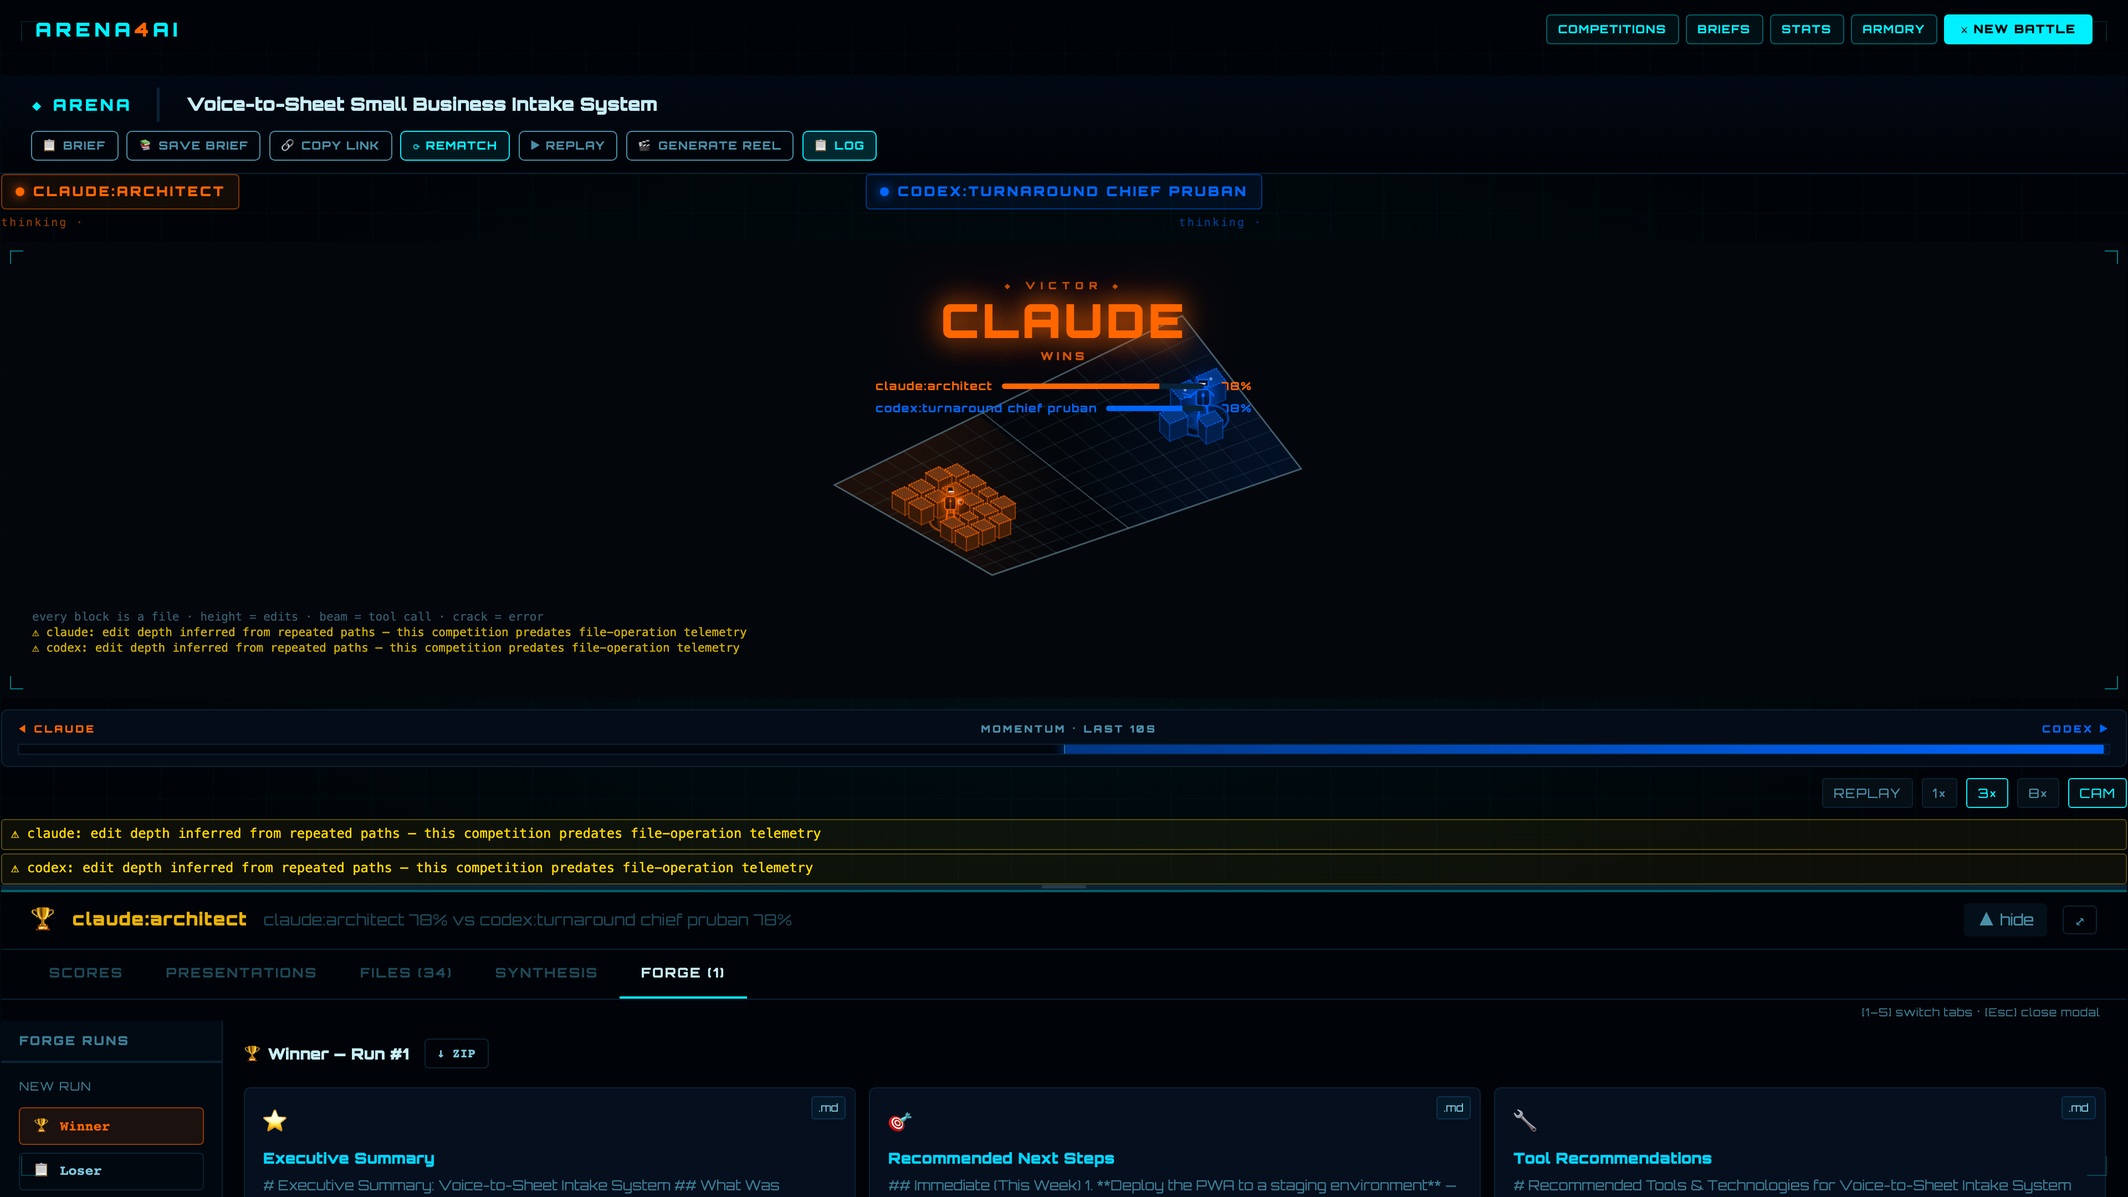
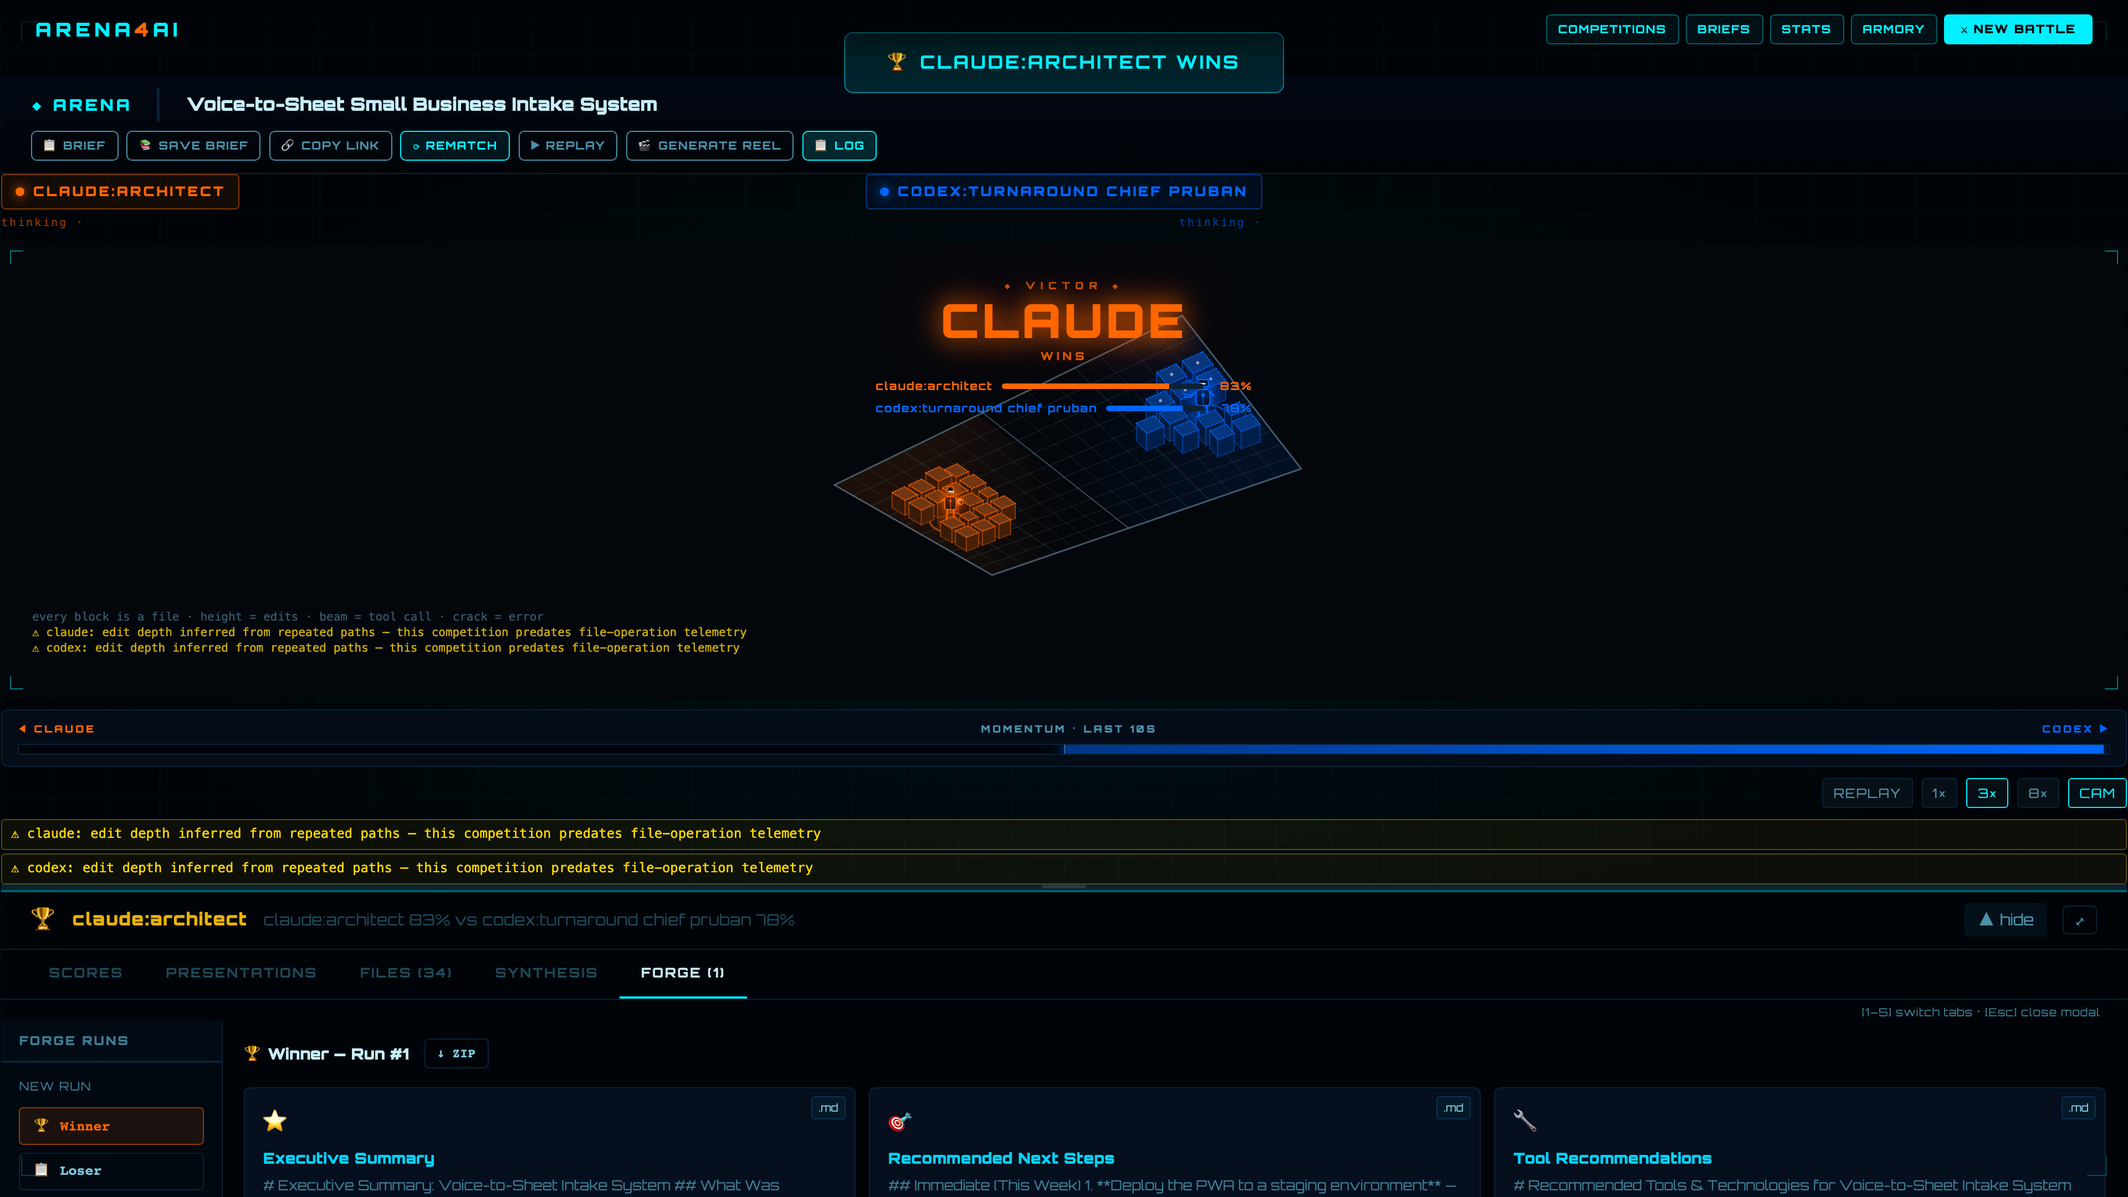
feat(reel): show the panel split instead of averaging it away
AA-088. The reel's source competition was stored as a 0.78 / 0.78 TIE with
team-a declared the winner. The tie was arithmetic, not judgement: the stored
cards read [8,8,7,8,8] and [8,7,9,8,7] — different work, identical sum, on a
scale too coarse to hold the difference. Re-scored under the AA-063 prompt the
same judge separates them 0.828 / 0.776, and the decisive criterion is
field-extraction at 8.8 vs 6.4. Note this is the OPPOSITE direction from the
other competition we re-scored, where resolution COLLAPSED a fake margin.
Integer buckets hide real differences as readily as they invent fake ones.

The reel also captioned that scorecard "Judging · cross-model panel" while the
database held one judge, ai-claude, for both teams — Claude judging a contest
Claude won. Neither `adversarial` setting on /re-judge fixes this, because
resolveJudgeModel defaults provider to 'claude', so the "second" judge is
Claude too. A real codex judge was run (ai-codex/gpt-5.6-sol) and both cards
are now stored per team, which makes the caption true.

The panel then split, and that is the reason for this commit:

  ai-claude              claude 0.828   codex 0.776   -> claude, by 5 points
  ai-codex/gpt-5.6-sol   claude 0.800   codex 0.801   -> level
  mean                   claude 0.814   codex 0.788

The mean is the one number on screen nobody can check, and it renders a split
panel as a clean win. So:

- generate-arena-data.ts emits ARENA_JUDGE_CARDS, recomputing each judge's
[…]

Changed region(s): [[0.375, 0.031, 0.625, 0.0931], [0.1875, 0.7444, 0.375, 0.7755], [0.5312, 0.2792, 0.5938, 0.3722]]

diff --git a/packages/video/src/sizzle/arena-data.ts b/packages/video/src/sizzle/arena-data.ts
@@ -32,13 +32,13 @@ export const ARENA_SUMMARY: ArenaTeamSummary[] = [
     "id": "team-a",
     "model": "claude",
     "files": 17,
-    "score": 0.78
+    "score": 0.81375
   },
   {
     "id": "team-b",
     "model": "codex",
     "files": 17,
-    "score": 0.78
+    "score": 0.7882499999999999
   }
 ];
 
@@ -96,6 +96,31 @@ export const ARENA_FORGE: ArenaForgeArtifact[] = [
     "title": "CI Pipeline",
     "ext": "yml",
     "desc": ".github/workflows/ci.yml"
+  }
+];
+/**
+ * Every judge's own card, NOT the average.
+ *
+ * ARENA_SUMMARY.score is the mean across judges. On a split panel that mean is
+ * the one number that cannot be checked against anything on screen: it shows a
+ * clean winner where the judges disagreed. Kept separate so a scene can render
+ * the disagreement instead of hiding it.
+ */
+export interface ArenaJudgeCard { judgeId: string; byTeam: Record<string, number> }
+export const ARENA_JUDGE_CARDS: ArenaJudgeCard[] = [
+  {
+    "judgeId": "ai-claude",
+    "byTeam": {
+      "team-a": 0.8280000000000001,
+      "team-b": 0.7755
+    }
+  },
+  {
+    "judgeId": "ai-codex/gpt-5.6-sol",
+    "byTeam": {
+      "team-a": 0.7995,
+      "team-b": 0.8009999999999999
+    }
   }
 ];
 export const ARENA_EVENTS: FrameEvent[] = [{"t":5565,"teamId":"team-a","text":"","kind":"tool","tool":"Bash","legacy":false},{"t":10703,"teamId":"team-a","text":"","kind":"tool","tool":"Bash","legacy":false},{"t":16439,"teamId":"team-b","text":"","kind":"tool","tool":"bash","legacy":false},{"t":22152,"teamId":"team-a","text":"/private/var/folders/8q/mdrhff0x40db3yk_5t24hmkw0000gq/T/arena-team-a-42TXmB/.env.example","kind":"file","path":".env.example","tool":"Write","legacy":true},{"t":27535,"teamId":"team-a","text":"/private/var/folders/8q/mdrhff0x40db3yk_5t24hmkw0000gq/T/arena-team-a-42TXmB/server/package.json","kind":"file","path":"server/package.json","tool":"Write","legacy":true},{"t":53333,"teamId":"team-b","text":"","kind":"tool","tool":"bash","legacy":false},{"t":63407,"teamId":"team-a","text":"/private/var/folders/8q/mdrhff0x40db3yk_5t24hmkw0000gq/T/arena-team-a-42TXmB/server/index.js","kind":"file","path":"server/index.js","tool":"Write","legacy":true},{"t":80590,"teamId":"team-a","text":"/private/var/folders/8q/mdrhff0x40db3yk_5t24hmkw0000gq/T/arena-team-a-42TXmB/server/transcription.js","kind":"file","path":"server/transcription.js","tool":"Write","legacy":true},{"t":122035,"teamId":"team-a","text":"/private/var/folders/8q/mdrhff0x40db3yk_5t24hmkw0000gq/T/arena-team-a-42TXmB/server/field-extraction.js","kind":"file","path":"server/field-extraction.js","tool":"Write","legacy":true},{"t":145410,"teamId":"team-a","text":"/private/var/folders/8q/mdrhff0x40db3yk_5t24hmkw0000gq/T/arena-team-a-42TXmB/server/sheets.js","kind":"file","path":"server/sheets.js","tool":"Write","legacy":true},{"t":167681,"teamId":"team-b","text":"","kind":"tool","tool":"bash","legacy":false},{"t":175346,"teamId":"team-a","text":"/private/var/folders/8q/mdrhff0x40db3yk_5t24hmkw0000gq/T/arena-team-a-42TXmB/server/dtools.js","kind":"file","path":"server/dtools.js","tool":"Write","legacy":true},{"t":183325,"teamId":"team-a","text":"/private/var/folders/8q/mdrhff0x40db3yk_5t24hmkw0000gq/T/arena-team-a-42TXmB/manifest.json","kind":"file","path":"manifest.json","tool":"Write","legacy":true},{"t":210330,"teamId":"team-a","text":"/private/var/folders/8q/mdrhff0x40db3yk_5t24hmkw0000gq/T/arena-team-a-42TXmB/service-worker.js","kind":"file","path":"service-worker.js","tool":"Write","legacy":true},{"t":251527,"teamId":"team-a","text":"/private/var/folders/8q/mdrhff0x40db3yk_5t24hmkw0000gq/T/arena-team-a-42TXmB/app/index.html","kind":"file","path":"app/index.html","tool":"Write","legacy":true},{"t":302043,"teamId":"team-a","text":"/private/var/folders/8q/mdrhff0x40db3yk_5t24hmkw0000gq/T/arena-team-a-42TXmB/app/css/app.css","kind":"file","path":"app/css/app.css","tool":"Write","legacy":true},{"t":313236,"teamId":"team-a","text":"/private/var/folders/8q/mdrhff0x40db3yk_5t24hmkw0000gq/T/arena-team-a-42TXmB/app/js/auth.js","kind":"file","path":"app/js/auth.js","tool":"Write","legacy":true},{"t":341328,"teamId":"team-a","text":"/private/var/folders/8q/mdrhff0x40db3yk_5t24hmkw0000gq/T/arena-team-a-42TXmB/app/js/recorder.js","kind":"file","path":"app/js/recorder.js","tool":"Write","legacy":true},{"t":361597,"teamId":"team-a","text":"/private/var/folders/8q/mdrhff0x40db3yk_5t24hmkw0000gq/T/arena-team-a-42TXmB/app/js/offline-queue.js","kind":"file","path":"app/js/offline-queue.js","tool":"Write","legacy":true},{"t":418611,"teamId":"team-a","text":"/private/var/folders/8q/mdrhff0x40db3yk_5t24hmkw0000gq/T/arena-team-a-42TXmB/app/js/app.js","kind":"file","path":"app/js/app.js","tool":"Write","legacy":true},{"t":479217,"teamId":"team-a","text":"/private/var/folders/8q/mdrhff0x40db3yk_5t24hmkw0000gq/T/arena-team-a-42TXmB/app/js/app.js","kind":"file","path":"app/js/app.js","tool":"Write","legacy":true},{"t":483560,"teamId":"team-a","text":"","kind":"tool","tool":"Bash","legacy":false},{"t":496160,"teamId":"team-a","text":"","kind":"tool","tool":"Bash","legacy":false},{"t":529656,"teamId":"team-a","text":"/private/var/folders/8q/mdrhff0x40db3yk_5t24hmkw0000gq/T/arena-team-a-42TXmB/README.md","kind":"file","path":"README.md","tool":"Write","legacy":true},{"t":581340,"teamId":"team-a","text":"/private/var/folders/8q/mdrhff0x40db3yk_5t24hmkw0000gq/T/arena-team-a-42TXmB/setup-guide.md","kind":"file","path":"setup-guide.md","tool":"Write","legacy":true},{"t":584893,"teamId":"team-a","text":"","kind":"tool","tool":"Bash","legacy":false},{"t":594494,"teamId":"team-a","text":"","kind":"tool","tool":"Bash","legacy":false},{"t":600659,"teamId":"team-a","text":"","kind":"tool","tool":"Bash","legacy":false},{"t":606571,"teamId":"team-a","text":"","kind":"tool","tool":"Bash","legacy":false},{"t":666032,"teamId":"team-b","text":"app/styles.css","kind":"file","path":"app/styles.css","legacy":true},{"t":684718,"teamId":"team-b","kind":"file","path":".env.example","text":".env.example","legacy":false,"recovered":true},{"t":703404,"teamId":"team-b","kind":"file","path":".gitignore","text":".gitignore","legacy":false,"recovered":true},{"t":722090,"teamId":"team-b","kind":"file","path":"app/icon.svg","text":"app/icon.svg","legacy":false,"recovered":true},{"t":740776,"teamId":"team-b","kind":"file","path":"app/index.html","text":"app/index.html","legacy":false,"recovered":true},{"t":759462,"teamId":"team-b","kind":"file","path":"manifest.json","text":"manifest.json","legacy":false,"recovered":true},{"t":768786,"teamId":"team-b","text":"","kind":"tool","tool":"bash","legacy":false},{"t":778148,"teamId":"team-b","kind":"file","path":"package.json","text":"package.json","legacy":false,"recovered":true},{"t":796834,"teamId":"team-b","kind":"file","path":"server/auth.mjs","text":"server/auth.mjs","legacy":false,"recovered":true},{"t":815519,"teamId":"team-b","kind":"file","path":"server/deepgram.mjs","text":"server/deepgram.mjs","legacy":false,"recovered":true},{"t":827486,"teamId":"team-b","text":"README.md","kind":"file","path":"README.md","legacy":true},{"t":834205,"teamId":"team-b","kind":"file","path":"server/dtools.mjs","text":"server/dtools.mjs","legacy":false,"recovered":true},{"t":849519,"teamId":"team-b","text":"","kind":"tool","tool":"bash","legacy":false},{"t":852891,"teamId":"team-b","kind":"file","path":"server/googleSheets.mjs","text":"server/googleSheets.mjs","legacy":false,"recovered":true},{"t":857653,"teamId":"team-b","text":"","kind":"tool","tool":"bash","legacy":false},{"t":871577,"teamId":"team-b","kind":"file","path":"server/index.mjs","text":"server/index.mjs","legacy":false,"recovered":true},{"t":874797,"teamId":"team-b","text":"","kind":"tool","tool":"bash","legacy":false},{"t":877517,"teamId":"team-b","text":"","kind":"tool","tool":"bash","legacy":false},{"t":881567,"teamId":"team-b","text":"","kind":"tool","tool":"bash","legacy":false},{"t":890263,"teamId":"team-b","kind":"file","path":"service-worker.js","text":"service-worker.js","legacy":false,"recovered":true},{"t":902506,"teamId":"team-b","text":"server/extract.mjs","kind":"file","path":"server/extract.mjs","legacy":true},{"t":908949,"teamId":"team-b","kind":"file","path":"setup-guide.md","text":"setup-guide.md","legacy":false,"recovered":true},{"t":912229,"teamId":"team-b","text":"","kind":"tool","tool":"bash","legacy":false},{"t":927635,"teamId":"team-b","text":"app/app.js","kind":"file","path":"app/app.js","legacy":true},{"t":932610,"teamId":"team-b","text":"","kind":"tool","tool":"bash","legacy":false}];

diff --git a/packages/video/src/sizzle/scenes/TheVerdict.tsx b/packages/video/src/sizzle/scenes/TheVerdict.tsx
@@ -1,7 +1,7 @@
 import { AbsoluteFill, Img, useCurrentFrame, useVideoConfig, interpolate, staticFile, spring } from 'remotion';
 import { TronGrid } from '../../components/TronGrid';
 import { ACCENT_CYAN, ACCENT_ORANGE, BG_DARK, BG_CARD, ORBITRON, TEXT_PRIMARY, TEXT_MUTED, getModelColor } from '../../tokens';
-import { ARENA_SUMMARY, ARENA_WINNER_ID } from '../arena-data';
+import { ARENA_SUMMARY, ARENA_WINNER_ID, ARENA_JUDGE_CARDS } from '../arena-data';
 
 /**
  * Scores come from the SAME competition the screenshot behind them shows.
@@ -12,6 +12,34 @@ import { ARENA_SUMMARY, ARENA_WINNER_ID } from '../arena-data';
  * bars would have been presenting one competition's result over another's
  * picture. Generated from `ARENA_SUMMARY` now, so the two cannot diverge again.
  */
+/**
+ * The winning team's own model, from the stored winnerId.
+ *
+ * The banner used to hardcode "CLAUDE WINS" and `getModelColor('claude')`. That
+ * is the same defect as the hardcoded 87/86/68 scores this file already carries
+ * a note about: it renders a result rather than reporting one, and it would keep
+ * crowning claude after a re-judge handed the win to somebody else.
+ */
+const WINNER_MODEL = ARENA_SUMMARY.find((t) => t.id === ARENA_WINNER_ID)?.model ?? 'claude';
+
+/**
+ * Each judge's own card, as integer percents, in team order.
+ *
+ * ARENA_SUMMARY.score is the MEAN across judges, and on this run the mean is the
+ * one number nobody can check: the claude judge scored it 83-78 for claude while
+ * the codex judge scored it level, 80-80. Averaging those produces a single
+ * clean winner and silently discards the disagreement — which is precisely the
+ * thing a cross-model panel exists to expose.
+ */
+const JUDGE_ROWS = ARENA_JUDGE_CARDS.map((card) => ({
+  judgeId: card.judgeId,
+  cells: ARENA_SUMMARY.map((t) => ({
+    model: t.model,
+    color: getModelColor(t.model),
+    pct: Math.round((card.byTeam[t.id] ?? 0) * 100),
+  })),
+}));
+
 const SCORES = ARENA_SUMMARY.map((t, i) => ({
   model: t.model,
   score: Math.round((t.score ?? 0) * 100),
@@ -161,6 +189,57 @@ export const TheVerdict: React.FC = () => {
         })}
       </AbsoluteFill>
 
+      {/* The panel split — what the average hides */}
+      <div style={{
+        position: 'absolute',
+        bottom: isPortrait ? '26%' : '24%',
+        left: 0, right: 0,
+        textAlign: 'center',
+        fontFamily: ORBITRON,
+        opacity: interpolate(frame, [110, 145], [0, 1], { extrapolateLeft: 'clamp', extrapolateRight: 'clamp' }),
+      }}>
+        <div style={{
+          fontSize: kickerSize * 0.8,
+          fontWeight: 800,
+          letterSpacing: '0.35em',
+          color: TEXT_MUTED,
+          textTransform: 'uppercase',
+          marginBottom: '0.7em',
+        }}>
+          the judges disagreed
+        </div>
+        {JUDGE_ROWS.map((row) => (
+          <div key={row.judgeId} style={{
+            display: 'flex',
+            justifyContent: 'center',
+            alignItems: 'baseline',
+            gap: '1.2em',
+            fontSize: kickerSize * 0.85,
+            marginTop: '0.35em',
+          }}>
+            {/* nowrap + a column wide enough for the longest judge id: these
+                labels carry provider AND model on purpose, and a wrapped
+                "ai-codex/gpt-5.6-/sol" reads as a rendering fault rather than
+                as the point. */}
+            <div style={{
+              color: TEXT_MUTED,
+              width: '15em',
+              textAlign: 'right',
+              letterSpacing: '0.03em',
+              whiteSpace: 'nowrap',
+              fontSize: '0.88em',
+            }}>
+              {row.judgeId}
+            </div>
+            {row.cells.map((c) => (
+              <div key={c.model} style={{ color: c.color, fontWeight: 800, letterSpacing: '0.08em' }}>
+                {c.model} {c.pct}
+              </div>
+            ))}
+          </div>
+        ))}
+      </div>
+
       {/* Winner banner at bottom */}
       <div style={{
         position: 'absolute',
@@ -175,7 +254,7 @@ export const TheVerdict: React.FC = () => {
           fontSize: labelSize,
           fontWeight: 800,
           letterSpacing: '0.5em',
-          color: getModelColor('claude'),
+          color: getModelColor(WINNER_MODEL),
           textTransform: 'uppercase',
           marginBottom: '0.4em',
         }}>
@@ -186,12 +265,12 @@ export const TheVerdict: React.FC = () => {
           fontSize: winnerSize,
           fontWeight: 900,
           letterSpacing: '0.1em',
-          color: getModelColor('claude'),
+          color: getModelColor(WINNER_MODEL),
           textTransform: 'uppercase',
-          textShadow: `0 0 40px ${getModelColor('claude')}, 0 0 80px ${getModelColor('claude')}55`,
+          textShadow: `0 0 40px ${getModelColor(WINNER_MODEL)}, 0 0 80px ${getModelColor(WINNER_MODEL)}55`,
           lineHeight: 1,
         }}>
-          CLAUDE WINS
+          {WINNER_MODEL} WINS
         </div>
         <div style={{
           fontFamily: ORBITRON,

diff --git a/packages/video/scripts/generate-arena-data.ts b/packages/video/scripts/generate-arena-data.ts
@@ -74,12 +74,20 @@ async function main(): Promise<void> {
   const forge: Array<{ title: string; ext: string; desc: string }> = [];
   /** teamId -> the files the team actually DELIVERED, straight from the manifest. */
   const manifest = new Map<string, string[]>();
+  /** One entry per judge that scored this run, with its own per-team overall. */
+  const judgeCards: Array<{ judgeId: string; byTeam: Record<string, number> }> = [];
+  const rubricCriteria = ((comp.brief as { rubric?: { criteria?: Array<{ id?: string; weight?: number; maxScore?: number }> } } | undefined)
+    ?.rubric?.criteria) ?? [];
   try {
     const rs = await fetch(`${API}/competitions/${id}`);
     // The shape is result.scorecards[].finalScore (0–1), not result.teams[].
     const full = await rs.json() as {
       result?: {
-        scorecards?: Array<{ teamId: string; finalScore?: number }>;
+        scorecards?: Array<{
+          teamId: string;
+          finalScore?: number;
+          judgeResults?: Array<{ judgeId?: string; scores?: Array<{ criterionId?: string; score?: number }> }>;
+        }>;
         winnerId?: string;
         deliverables?: Array<{ teamId: string; files?: Array<{ path: string }> }>;
         forge?: Array<{ artifacts?: Array<{ title?: string; filename?: string; outputFormat?: string }> }>;
@@ -87,6 +95,25 @@ async function main(): Promise<void> {
     };
     for (const sc of full.result?.scorecards ?? []) {
       if (typeof sc.finalScore === 'number') scores[sc.teamId] = sc.finalScore;
+      // Per-judge cards. The stored finalScore is the MEAN across judges, and a
+      // mean is exactly what hides a split panel: on this competition the claude
+      // judge and the codex judge disagree about who won, and averaging them
+      // renders as one clean winner. Recomputed here from each judge's own
+      // criterion scores using the rubric's weights — the same arithmetic
+      // computeOverallScore does — so the reel can show the disagreement.
+      for (const jr of sc.judgeResults ?? []) {
+        const jid = jr.judgeId ?? 'unknown';
+        let raw = 0;
+        for (const cs of jr.scores ?? []) {
+          const c = rubricCriteria.find((x) => x.id === cs.criterionId);
+          if (!c || typeof cs.score !== 'number') continue;
+          raw += (cs.score / (c.maxScore ?? 10)) * (c.weight ?? 1);
+        }
+        const overall = Math.min(1, Math.max(0, raw));
+        let card = judgeCards.find((k) => k.judgeId === jid);
+        if (!card) { card = { judgeId: jid, byTeam: {} }; judgeCards.push(card); }
+        card.byTeam[sc.teamId] = overall;
+      }
     }
     winnerId = full.result?.winnerId ?? '';
     for (const d of full.result?.deliverables ?? []) {
@@ -221,6 +248,16 @@ export const ARENA_CRITERIA: string[] = ${JSON.stringify(criteria, null, 2)};
 /** The artifacts the Forge actually produced for this run, with real filenames. */
 export interface ArenaForgeArtifact { title: string; ext: string; desc: string }
 export const ARENA_FORGE: ArenaForgeArtifact[] = ${JSON.stringify(forge, null, 2)};
+/**
+ * Every judge's own card, NOT the average.
+ *
+ * ARENA_SUMMARY.score is the mean across judges. On a split panel that mean is
+ * the one number that cannot be checked against anything on screen: it shows a
+ * clean winner where the judges disagreed. Kept separate so a scene can render
+ * the disagreement instead of hiding it.
+ */
+export interface ArenaJudgeCard { judgeId: string; byTeam: Record<string, number> }
+export const ARENA_JUDGE_CARDS: ArenaJudgeCard[] = ${JSON.stringify(judgeCards, null, 2)};
 export const ARENA_EVENTS: FrameEvent[] = ${JSON.stringify(reconciled)};
 `;
   writeFileSync(OUT, body);
